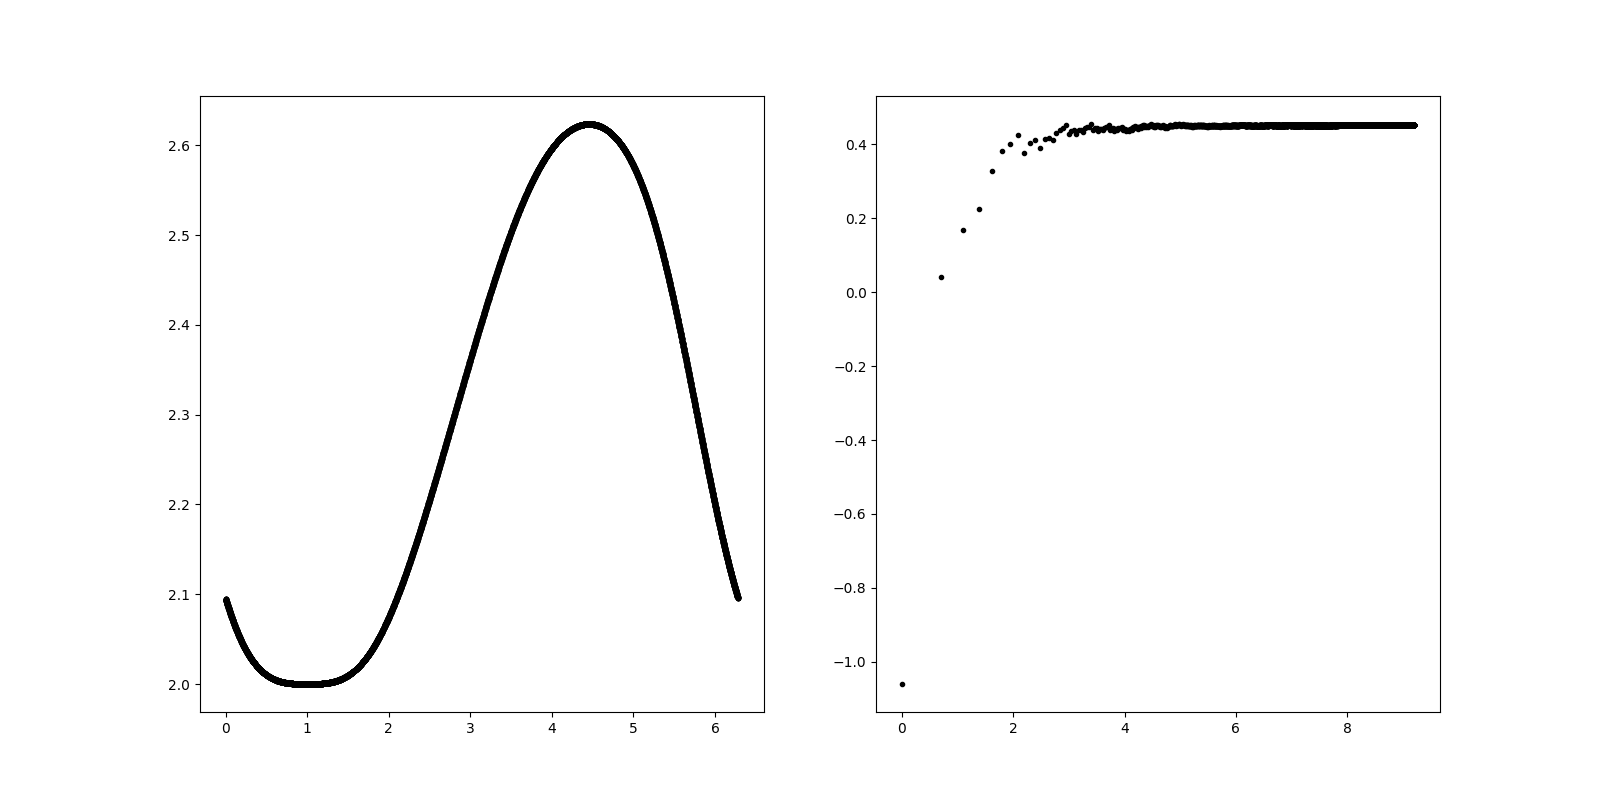
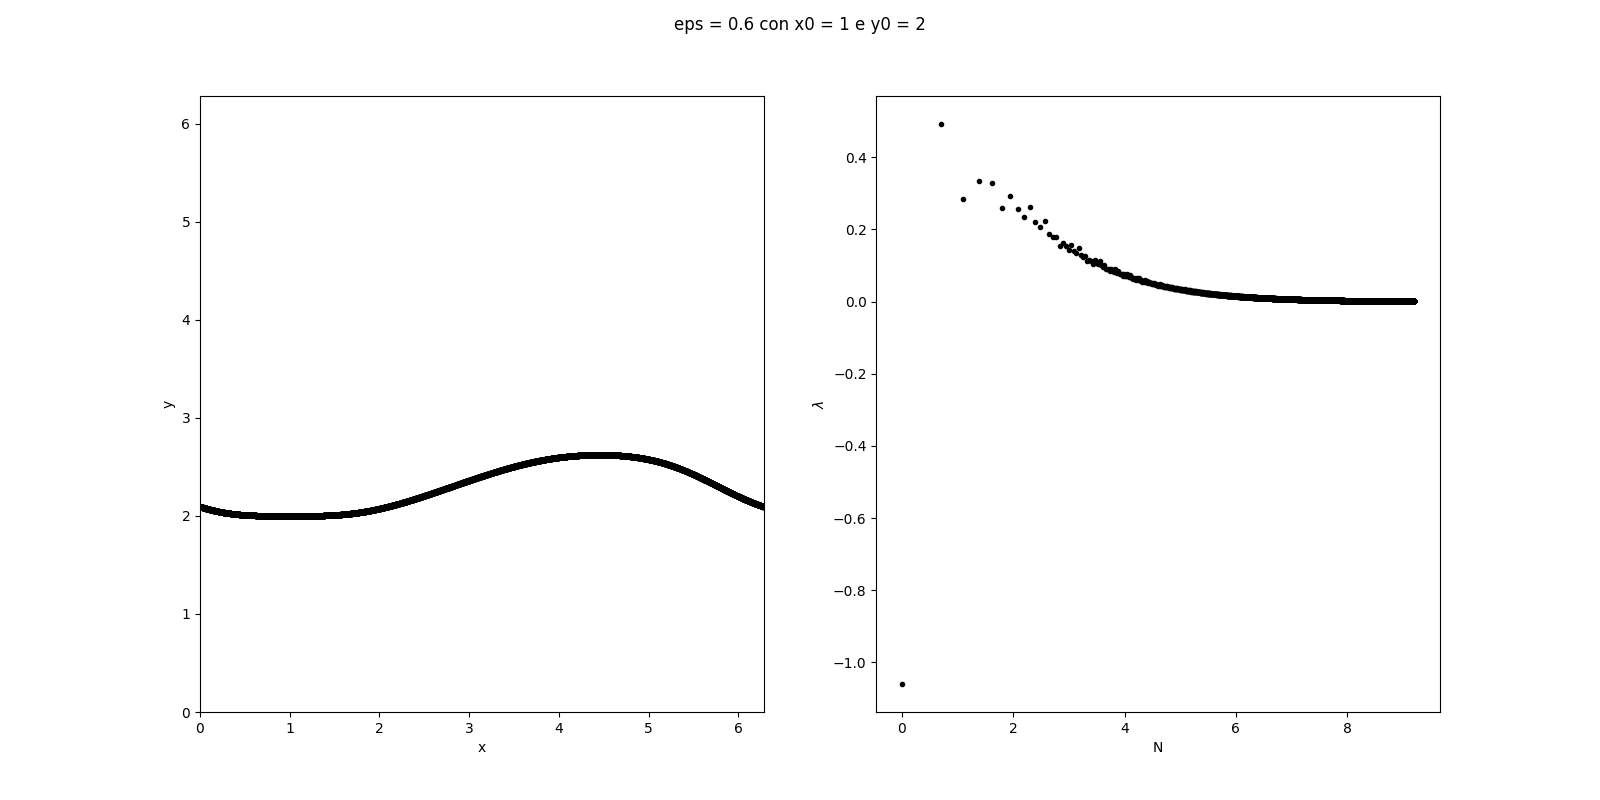
correction lab11 and lab12

diff --git a/mmma/lab11/lyapunovExponent.py b/mmma/lab11/lyapunovExponent.py
@@ -9,11 +9,10 @@ def F(xn, yn, eps):
     return xSucc, ySucc
 
 #mappa dinamica tangente
-def delF(xn, yn, eps):
-    xSucc, ySucc = F(xn, yn, eps)
-    xSuccDel = ((1 + eps*math.cos(xn))*xSucc + 1*ySucc)#%(2*math.pi)
-    ySuccDel = ((eps*math.cos(xn))*xSucc + 1*ySucc)#%(2*math.pi)
-    return xSuccDel, ySuccDel
+def delF(xn, vxn, vyn, eps):
+    vxSucc = ((1 + eps*math.cos(xn))*vxn + 1*vyn)#%(2*math.pi)
+    vySucc = ((eps*math.cos(xn))*vxn + 1*vyn)#%(2*math.pi)
+    return vxSucc, vySucc
 
 def norm2(x,y):
     return math.sqrt(x**2 + y**2)
@@ -30,8 +29,15 @@ epss = [0.6, 0.9, 1.2, 1.5]
 for New in p0:
     for eps in epss:
         fig, axs = plt.subplots(1,2, figsize=(16,8))
+        fig.suptitle('eps = {0} con x0 = {1} e y0 = {2}'.format(eps, New[0], New[1]))
+        axs[0].set_xlim(0,2*math.pi)
+        axs[0].set_ylim(0,2*math.pi)
+        axs[0].set_xlabel('x')
+        axs[0].set_ylabel('y')
+        axs[1].set_xlabel('N')
+        axs[1].set_ylabel(r'$\lambda$')
         xNew, yNew = New[0], New[1]
-        vxNew, vyNew = 1, 1 
+        vxNew, vyNew = 1, 1
         #plt.plot(0, math.log(ly(1, vxNew, vyNew)), marker=".", color='k')
         axs[0].plot(xNew, yNew, marker=".", color='k')
         axs[1].plot(0, math.log(ly(1, vxNew, vyNew)), marker=".", color='k')
@@ -44,28 +50,27 @@ for New in p0:
                 rollingNorm.append(norm2(vxNew, vyNew))
                 vxNew /= rollingNorm[-1]
                 vyNew /= rollingNorm[-1]
-            derVx, derVy = delF(xNew, yNew, eps)
-            vxNew, vyNew = derVx*vxNew, derVy*vyNew
-            #print("{0}, {1} with norm = {2}".format(vxNew, vyNew, norm2(vxNew, vyNew)))
+            vxNew, vyNew = delF(xNew, vxNew, vyNew, eps)
+            #print("{0}, {1} with norm = {2} and ly {3}".format(vxNew, vyNew, norm2(vxNew, vyNew), ly(i+2, vxNew, vyNew, rollingNorm)))
             #plt.plot(math.log(i+2), math.log(ly(i+2, vxNew, vyNew, rollingNorm)), marker=".", color='k')
             axs[0].plot(xNew, yNew, marker=".", color='k')
-            axs[1].plot(math.log(i+2), math.log(ly(i+2, vxNew, vyNew, rollingNorm)), marker=".", color='k')
+            axs[1].plot(math.log(i+2), ly(i+2, vxNew, vyNew, rollingNorm), marker=".", color='k')
             xNew, yNew = F(xNew, yNew, eps)
 
-        print("x0 = {0} y0 = {1} eps = {2} lambda = {3}".format(New[0], New[1], eps, math.log(ly(i+2, vxNew, vyNew, rollingNorm))))
+        print("x0 = {0} y0 = {1} eps = {2} lambda = {3}".format(New[0], New[1], eps, ly(i+2, vxNew, vyNew, rollingNorm)))
         plt.savefig('lyapunovExponentX{0}Y{1}Eps{2}.png'.format(New[0], New[1], eps))
         #plt.show()
 
 # lambda corrispondenti ai vari casi in ordine
-# x0 = 1 y0 = 1 eps = 0.6 lambda = 0.27642161480547695
-# x0 = 1 y0 = 1 eps = 0.9 lambda = 0.2898802540347054
-# x0 = 1 y0 = 1 eps = 1.2 lambda = 0.11073054896181997
-# x0 = 1 y0 = 1 eps = 1.5 lambda = 0.5074866237015521
-# x0 = 1 y0 = 2 eps = 0.6 lambda = 0.4509708679818366
-# x0 = 1 y0 = 2 eps = 0.9 lambda = 0.442020668494017
-# x0 = 1 y0 = 2 eps = 1.2 lambda = 0.5607554580399073
-# x0 = 1 y0 = 2 eps = 1.5 lambda = 0.5316323277180223
-# x0 = 1 y0 = 4 eps = 0.6 lambda = 0.7063705630489279
-# x0 = 1 y0 = 4 eps = 0.9 lambda = 0.72254904247727
-# x0 = 1 y0 = 4 eps = 1.2 lambda = 0.5602908813168662
-# x0 = 1 y0 = 4 eps = 1.5 lambda = 0.5148227210868026
+# x0 = 1 y0 = 1 eps = 0.6 lambda = 0.0009036125939546975
+# x0 = 1 y0 = 1 eps = 0.9 lambda = 0.0003021807359235919
+# x0 = 1 y0 = 1 eps = 1.2 lambda = 0.000554432631691272
+# x0 = 1 y0 = 1 eps = 1.5 lambda = 0.29950630099454095
+# x0 = 1 y0 = 2 eps = 0.6 lambda = 0.0009471818673132967
+# x0 = 1 y0 = 2 eps = 0.9 lambda = 0.008275078100713876
+# x0 = 1 y0 = 2 eps = 1.2 lambda = 0.20186993411418241
+# x0 = 1 y0 = 2 eps = 1.5 lambda = 0.3021148545001853
+# x0 = 1 y0 = 4 eps = 0.6 lambda = 0.00047390784992244804
+# x0 = 1 y0 = 4 eps = 0.9 lambda = 0.0009038481386604993
+# x0 = 1 y0 = 4 eps = 1.2 lambda = 0.19213505742644135
+# x0 = 1 y0 = 4 eps = 1.5 lambda = 0.2877930571521134

diff --git a/mmma/lab12/isingModel.py b/mmma/lab12/isingModel.py
@@ -41,27 +41,27 @@ def isNewConfigurationAccepted(oldLattice, newLattice, beta, J):
 #     for i in range(lattice.shape[0]):
 #         for j in range(lattice.shape[1]):
 #             if lattice[i,j] == 1:
-#                 ax.plot([i], [j], marker=".", color='k')
+#                 ax.plot([i], [j], marker=".", markersize=10, color='k')
 #             else:
-#                 ax.plot([i], [j], marker=".", color='r')
+#                 ax.plot([i], [j], marker=".", markersize=10, color='r')
 #     plt.pause(0.01)
 
-temperatures = list(range(1,210))
+temperatures = list(range(1,22))
 J = 1
 numberOfIterations = 100
 
-#fig = plt.figure(figsize=(8,8))
-#ax = fig.add_subplot(111)
+# fig = plt.figure(figsize=(8,8))
+# ax = fig.add_subplot(111)
 
 for T in temperatures:
     lattice = construct(numberOfPointPerSide)
-    #printLattice(lattice)
+    # printLattice(lattice)
     for _ in range(numberOfIterations):
         oldLattice = np.copy(lattice)
         newLattice = np.copy(changeSpin(oldLattice, numberOfPointPerSide))
         if(isNewConfigurationAccepted(oldLattice, newLattice, 1/T, J) == 0):
             continue
         lattice = np.copy(newLattice)
-        #printLattice(lattice)
+        # printLattice(lattice)
     print("Con la temperatura {0} la magetizzazione è {1}".format(T, magnetization(lattice)))
-    #plt.show()
+    # plt.show()
